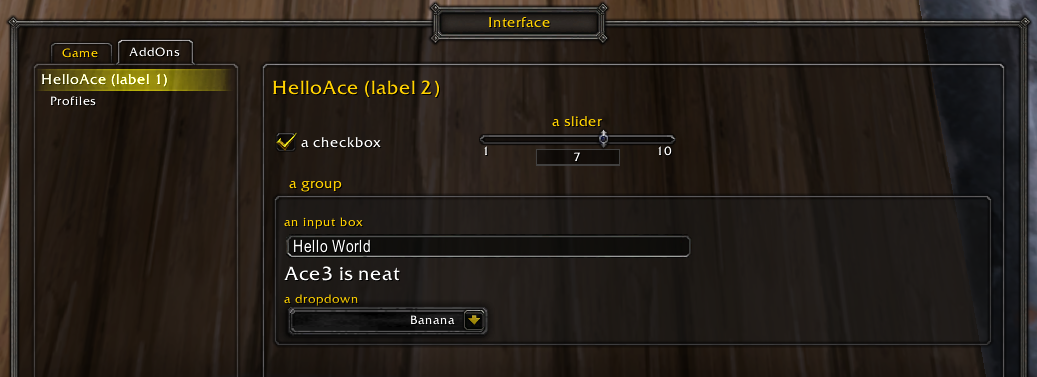
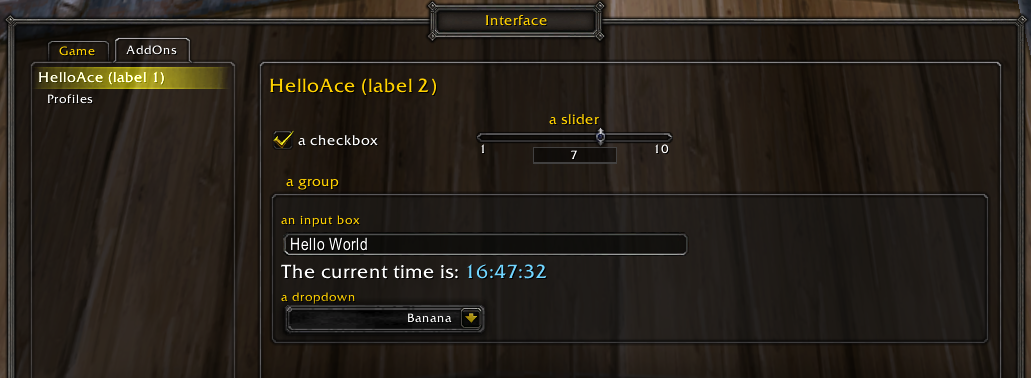
Added dynamic description example by showing the time Update readme

diff --git a/README.md b/README.md
@@ -3,3 +3,19 @@ Ace3 example with options window and slash commands.
 - https://wowpedia.fandom.com/wiki/WelcomeHome:_Your_first_Ace3_Addon
 
 ![](https://github.com/ketho-wow/HelloAce/raw/master/options.png)
+
+### Folder location
+Note that the addon files already are in a (sub)folder because I wanted to keep the README.md and similar files strictly separate for this example.
+And to avoid common mistakes like unzipping it to a `HelloAce-master` folder.
+
+You need to copypaste the `HelloAce` (sub)folder to your AddOns folder manually or alternatively use a [symlink](https://en.wikipedia.org/wiki/Symbolic_link) if you cloned the repository:
+```
+New-Item -ItemType SymbolicLink -Path "D:\Game\World of Warcraft\_retail_\Interface\AddOns\HelloAce" -Value "D:\Repo\HelloAce\HelloAce"
+```
+
+### About embeds
+The Ace3 libs are hard embedded for simplicity. For how to soft embed them, see [BigWigs: Preparing the PackageMeta File](https://github.com/BigWigsMods/packager/wiki/Preparing-the-PackageMeta-File).
+
+They can also be used standalone / without embedding, by:
+* Dropping the [Ace3](https://www.wowace.com/projects/ace3) addon in your `AddOns` folder.
+* Specifying `## OptionalDeps: Ace3` in your TOC.
